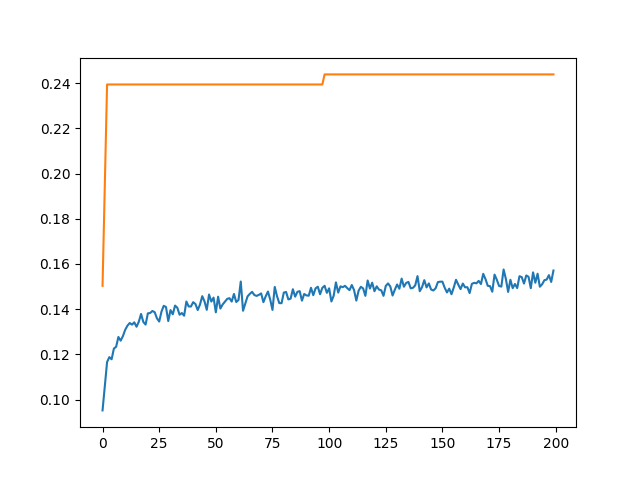
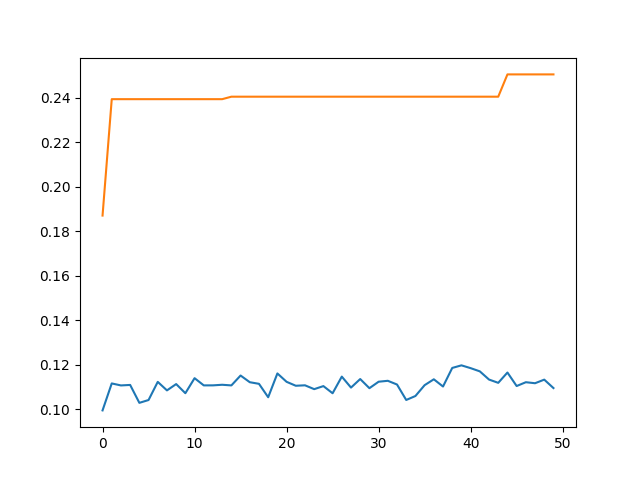
Pairs are now based on prabability and created in batches.

diff --git a/evolutionary.py b/evolutionary.py
@@ -103,15 +103,15 @@ def mutate_change(array, mutation_prob):
     return array
 
 def mutate_set(params_set, mutation_probs):
-    mutation_factor = 1
+    mutation_factor = 2
     new_set = []
     for i in range(len(params_set)):
         # reset_prob = (mutation_probs[i] / mutation_factor)*(21-epoch_counter)/20
         # change_prob = (mutation_probs[i] / mutation_factor)*(epoch_counter+1)/20
         # temp = mutate_reset(params_set[i], reset_prob)
         # new_set.append(mutate_change(temp, change_prob))
-        temp = mutate_reset(params_set[i], mutation_probs[i] / mutation_factor)
-        new_set.append(mutate_change(temp, mutation_probs[i] / mutation_factor))
+        temp = mutate_reset(params_set[i], mutation_probs[i] * mutation_factor)
+        new_set.append(mutate_change(temp, mutation_probs[i] * mutation_factor))
 
     return new_set
 
@@ -130,11 +130,13 @@ def cross_breed(pair):
 def choose_parent_indexes(num_of_pairs, prob_distribution):
     # num of pairs - how many pairs to create
     # index_range - what indexes to select from
+    batch_size = 3
     pairs = []
 
-    for _ in range(num_of_pairs):
-        selected_indexes = np.random.choice(np.arange(len(prob_distribution)), size=2, p=prob_distribution, replace=False)
-        pairs.append(selected_indexes)
+    for _ in range(num_of_pairs // batch_size + 1):
+        selected_indexes = np.random.choice(np.arange(len(prob_distribution)), size=2*batch_size, p=prob_distribution, replace=False)
+        for i in range(batch_size):
+            pairs.append(selected_indexes[i*2: (i+1)*2])
     
     return pairs
 
@@ -165,7 +167,7 @@ def create_graph(values, values2):
 def evolve(epochs, gen_size, dataloader):
 
     params_sets = create_param_sets(gen_size) # begin with random arrays of parameters
-    elitism_factor = 0.5
+    elitism_factor = 0.1
     average_accuracy = []
     max_accuracy = []
     for _ in range(epochs):
@@ -193,6 +195,6 @@ if __name__ == "__main__":
     datasets = random_split(transformed_dataset, (898, 899))
     train_dataloader = DataLoader(datasets[0], batch_size=40, shuffle=True)
     test_dataloader = DataLoader(datasets[1], batch_size=40, shuffle=True)
-    params = evolve(200, 100, train_dataloader)
+    params = evolve(50, 100, train_dataloader)
     print("Evolved accuracy: " + str(evaluate(params, test_dataloader)))
     
